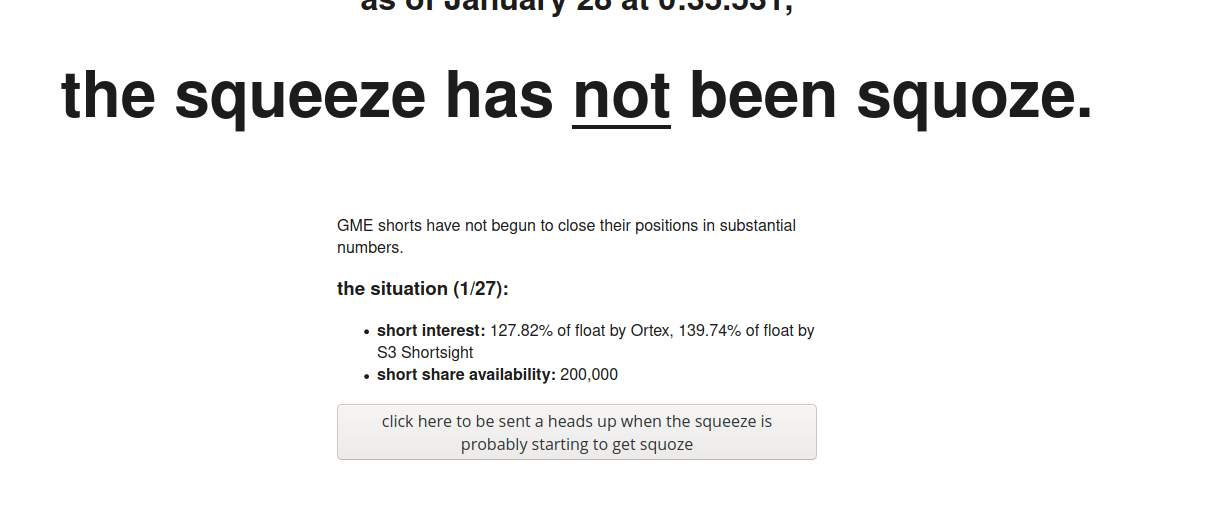
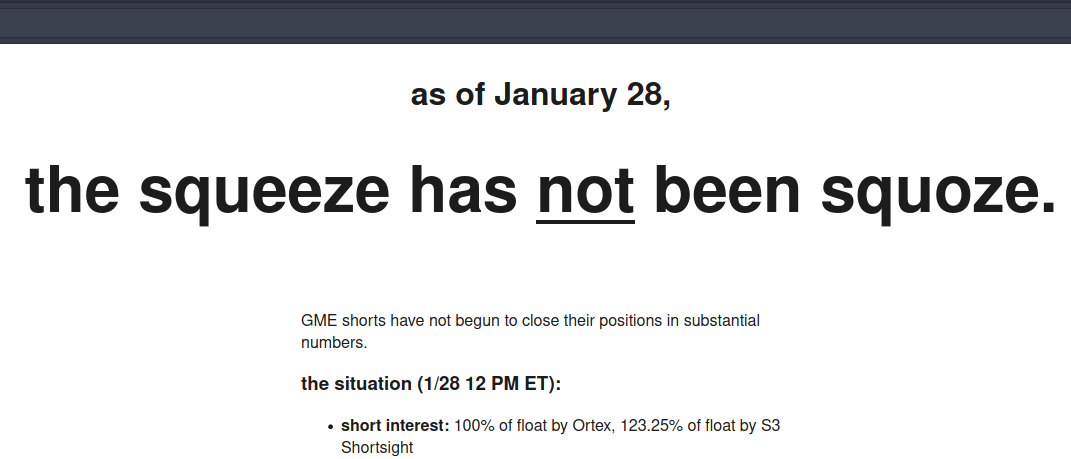
copy

diff --git a/index.html b/index.html
@@ -19,20 +19,20 @@
 
   <!-- Open Graph / Facebook -->
   <meta property="og:type" content="website">
-  <meta property="og:url" content="https://isthesqueezesquoze.casino/">
+  <meta property="og:url" content="https://isthesqueezesquoze.com/">
   <meta property="og:title" content="is the squeeze squoze yet?">
   <meta property="og:description" content="no">
-  <meta property="og:image" content="/thumb.png">
+  <meta property="og:image" content="https://isthesqueezesquoze.com/thumb.png">
 
   <!-- Twitter -->
   <meta property="twitter:card" content="summary_large_image">
-  <meta property="twitter:url" content="https://isthesqueezesquoze.casino/">
+  <meta property="twitter:url" content="https://isthesqueezesquoze.com/">
   <meta property="twitter:title" content="is the squeeze squoze yet?">
   <meta property="twitter:description" content="no">
-  <meta property="twitter:image" content="/thumb.png">
+  <meta property="twitter:image" content="https://isthesqueezesquoze.com/thumb.png">
 
 
-  <link rel="apple-touch-icon" href="/thumb.png">
+  <link rel="apple-touch-icon" href="https://isthesqueezesquoze.com/thumb.png">
 
   <meta name="theme-color" content="#1c1c1c">
   <style>
@@ -89,7 +89,7 @@
   <script async src="https://www.googletagmanager.com/gtag/js?id=G-HLD7RFSLFN"></script>
   <script>
     window.dataLayer = window.dataLayer || [];
-    function gtag(){dataLayer.push(arguments);}
+    function gtag() { dataLayer.push(arguments); }
     gtag('js', new Date());
 
     gtag('config', 'G-HLD7RFSLFN');
@@ -103,11 +103,18 @@
   </main>
   <article>
     <p>GME shorts have not begun to close their positions in substantial numbers.</p>
-    <h3>the situation (1/27):</h3>
+    <h3>the situation (1/28 5 PM ET):</h3>
     <p>
     <ul>
       <li><b>short interest:</b> <span id="short_interest"></span></li>
-      <li><b>short share availability:</b> <span id="short_availability"></span></li>
+      <li><b>change in short share availability:</b> <span id="short_availability"></span></li>
+      <li>robinhood and other brokerages relying on Citadel stopped accepting buy orders on stocks which Citadel wants to allow its hedge funds to unwind from. Robinhood is apparently going so far as to liquidate GME shares in accounts that are not using margin trading(!) If you're still on robinhood, you should find a new broker ASAP. Retail brokers who didn't stab their clients in the back include:
+        <ul>
+          <li>vanguard</li>
+          <li>td ameritrade</li>
+          <li>fidelity</li>
+        </ul>
+      </li>
     </ul>
     </p>
     <button id="subscribe">click here to be sent a heads up when the squeeze is probably starting to get squoze</button>
@@ -155,8 +162,10 @@
     </p>
     <p>
       But it presents an opportunity for the savvy degenerate gambler. Because these shares eventually need to be
-      returned - for one thing, they can only be borrowed for a certain number of days, and for another, it costs these
-      funds money to borrow a share. This means that at some point, they need to buy back those borrowed shares they
+      returned - after all, it does cost these funds money to borrow a share. And the higher the price goes, the more
+      unstable
+      it becomes, the more it costs to borrow. This means that at some point, they need to buy back those borrowed
+      shares they
       sold.
     </p>
     <p>
@@ -173,8 +182,8 @@
     </p>
     <p>
       And then, if a truly insane amount of call option buying - don't worry about it if you don't know - were to force
-      market makers to rapidly buy up a ton of shares to fulfill all those options they sold in a wild phenomenon that's
-      basically the stock equivalent of an atmospheric microburst, called a gamma squeeze, suddenly spiking Gamestop's
+      market makers to rapidly buy up a ton of shares to fulfill all those options they sold in a wild phenomenon called
+      a gamma squeeze that's basically the stock equivalent of an atmospheric microburst, suddenly spiking Gamestop's
       price to unheard-of levels -
     </p>
     <p>
@@ -183,8 +192,10 @@
     <p>
       Well then you'd have the perfect conditions for a short squeeze. The price is insanely high. There's a whole
       street of funds with deep pockets who absolutely must find a way to buy all those insanely expensive shares. And
-      by buying them - 140% of the amount traded! - they're going to drive up the price even more. So one day, a large
-      enough block of borrowed shares will expire that a fund will have to drive GME's price through the roof in buying
+      by buying them - 140% of the amount traded! - they're going to drive up the price even more. So one day, a fund
+      will run out of money paying interest on their borrowed shares, and they'll have to drive GME's price through the
+      roof
+      buying enough shares to give
       them back. And as the price climbs, other short holders are going to be required to cover their borrowed shares by
       buying them. It's a runaway reaction where the more it happens, the more it happens. You know, one of those cute
       little phenomena like virus spread. Or nuclear bombs.
@@ -199,9 +210,12 @@
       other stocks to create FOMO, causing GME holders to sell their shares to go chase some shiny new meme. They can
       hire PR companies to astroturf these stocks on Elon Musk fan clubs and gambling forums. They can buy up shares and
       then, after trading hours are over, sell them in progressively cheaper tranches to drive down the stock price.
-      They can wipe the hobo blood off their wattle and go cry on television about how they're being bullied. They have,
+      They can wipe the hobo blood off their wattle and go cry on television about how they're being bullied.
+      They can call up their investors, like Citadel, the company who processes all your orders, and tell them to stop
+      letting people buy Gamestop while they try to drive the price down. They have,
       in fact, tried all of these things. But it hasn't worked - GME's price is higher than ever. It's out of control,
-      now - there are too many people involved. The meme has reached critical mass.
+      now - there are too many people involved. There are other institutions involved, trying to extract maximum profit
+      out of the shorts. The meme has reached critical mass.
     </p>
     <p>
       Now it's a classic million-player prisoner's dilemma: every GME holder has visions of selling their shares for
@@ -236,6 +250,13 @@
       <li><a target="_blank" href="https://fintel.io/ss/us/gme">
           fintel short shares availability
         </a></li>
+      <li><a target="_blank" href="https://iborrowdesk.com/report/GME">
+          iBorrow short shares borrow rates
+        </a></li>
+      <li><a target="_blank"
+          href="https://www.interactivebrokers.com/en/index.php?key=gme&cntry=usa&tag=United+States&ib_entity=&ln=&asset=&f=4587">
+          Interactive Brokers borrow availability (free trial)
+        </a></li>
     </ul>
     </p>
   </article>
@@ -244,6 +265,20 @@
     <p>
       if you don't know this you shouldn't be gambling, but
     <ul>
+      <li>
+        robinhood didn't halt trading just because they hate you, they did it because Citadel made them. Robinhood can't
+        actually place your order themselves, they need to go to a market maker to find a counterparty for you. Citadel
+        actually pays robinhood for this, because your trades are free money for them - they overcharge you on the
+        spread, and they place their own trades immediately before yours to take advantage of price movement. They're
+        the ones who want you to lose money: they bailed out the biggest hedge fund shorting Gamestop, Melvin, so now
+        they own a huge chunk of that fund. So now that they want the shorts to win, and the retail traders (you) to
+        lose, they told robinhood to get lost, they just wouldn't be accepting buy orders on these stocks. Just sells.
+        (This has never happened before.) Only then did Robinhood turn around and stab its retail traders in the back -
+        because, of course, you're not their customer. Citadel is their customer. You're their product.
+      </li>
+      <li>
+        ok, this one's new to me: robinhood is apparently selling shares belonging to accounts that are not trading on margin. Margin calls are normal. Selling shares that your clients own outright is crazytown what-in-the-world shenanigans.
+      </li>
       <li>
         your broker is lending your shares out to people who want them, like the hedge funds you're betting against.
         depending who your broker is you can call them and tell them to stop, turn off margin trading, set limit sells
@@ -278,18 +313,17 @@
   const MONTHS = ['January', 'February', 'March', 'April', 'May', 'June', 'July', 'August', 'September', 'October', 'November', 'December'];
   const SHORT_DATA = [{
     source: 'Ortex',
-    estimate: 65.75,
+    estimate: 100.00,
   },
   {
     source: 'S3 Shortsight',
-    estimate: 71.88
+    estimate: 123.25,
   }];
-  const FLOAT = 51.44
-  const SHORT_AVAILABILITY = '200,000'
+  const SHORT_AVAILABILITY = '+9,000'
   const date = new Date();
 
   const timestampString = `${MONTHS[date.getMonth()]} ${date.getDate()}`;
-  const shortPercents = SHORT_DATA.map((s) => `${((s.estimate / FLOAT) * 100).toFixed(2)}% of float by ${s.source}`).join(', ');
+  const shortPercents = SHORT_DATA.map((s) => `${s.estimate}% of float by ${s.source}`).join(', ');
 
   document.querySelector("#date").textContent = timestampString;
   document.querySelector("#short_interest").textContent = shortPercents;
